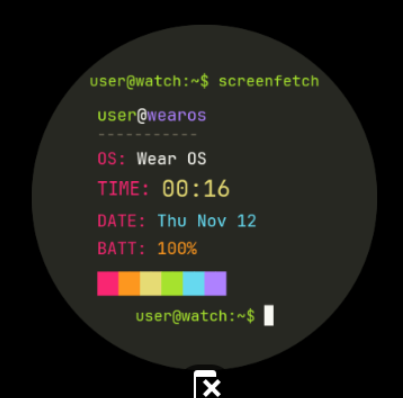
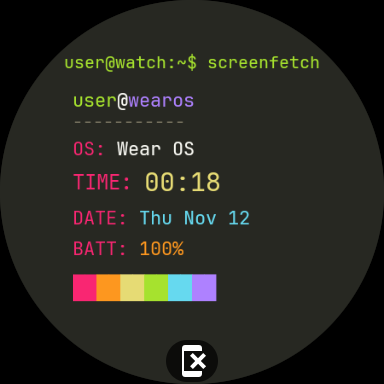
Remove bottom prompt, update preview screenshot, configure release build v1.0.0

diff --git a/README.md b/README.md
@@ -24,9 +24,7 @@ Built using the official **Watch Face Format (WFF v1)** for maximum battery effi
   - `DATE`: Current day of the week, month, and day.
   - `BATT`: Real-time device battery percentage (`[BATTERY_PERCENT]`).
 - **Color Swatch Bar**: Monokai terminal color blocks aligned flush with the system info text.
-- **Terminal CLI Header & Prompt**:
-  - Top: `user@watch:~$ screenfetch`
-  - Bottom: `user@watch:~$ █` active terminal prompt with cursor.
+- **Terminal CLI Header**: Top command execution `user@watch:~$ screenfetch`.
 - **JetBrains Mono Typography**: Clean monospace font for authentic terminal rendering.
 - **Declarative Watch Face Format**: Uses no custom background services or heavy runtimes—battery-friendly and native to Wear OS.
 
